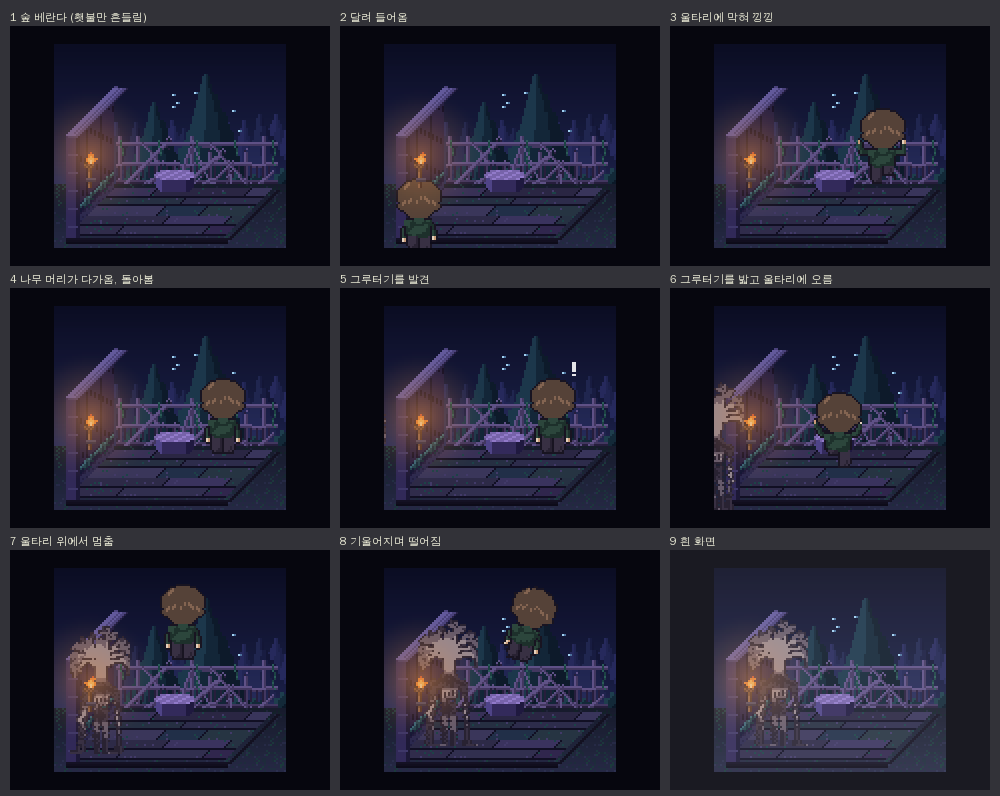
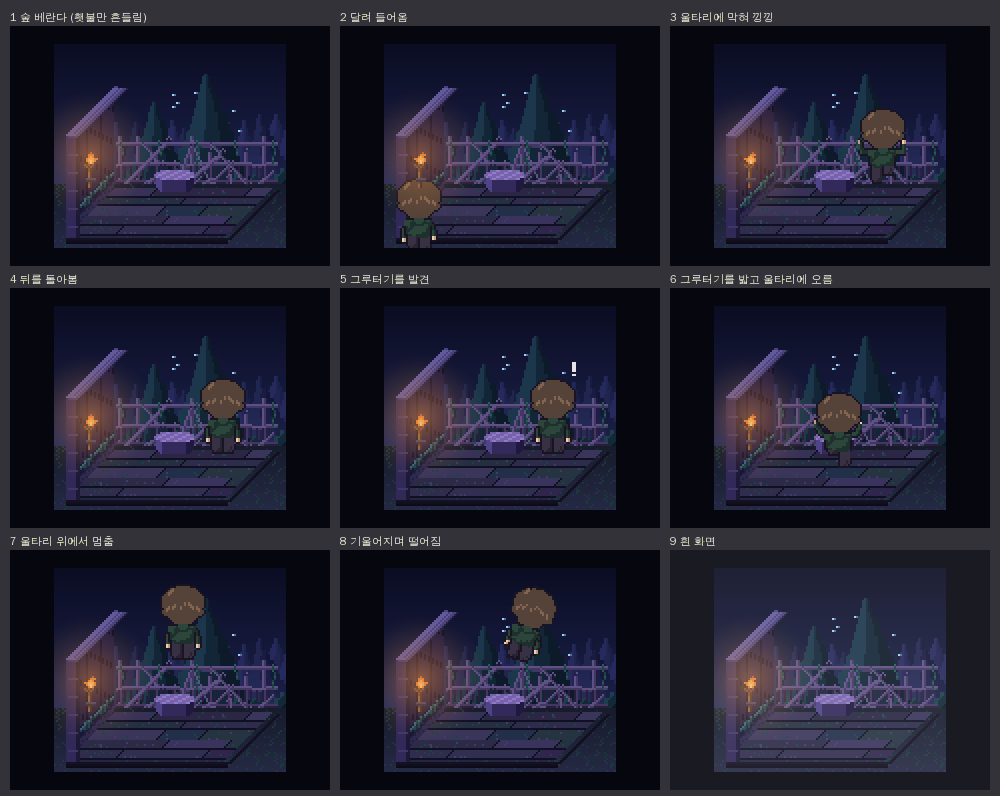
Ending cutscene: chaser removed for now
Claude-Session: https://claude.ai/code/session_01FPZSaKiVNU2zED737yZX4w

diff --git a/tools/gen_cutscene_ending.py b/tools/gen_cutscene_ending.py
@@ -2,7 +2,7 @@
 """수미상관 컷신(본편 끝, 숲 베란다, 게임 모드 사선 시점).  사용: python3 tools/gen_cutscene_ending.py
 출력: maps/out/ending_cutscene.gif (10fps, 320x240), maps/out/ending_cutscene_sheet.png
 프롤로그(아파트 베란다 추락)와 같은 순서를 숲에서 되풀이한다: 달려 들어옴 → 무너진 울타리에 막혀 매달려 보며 낑낑 →
-뒤에서 나무 머리가 다가옴 → 기울어진 옆의 그루터기를 발견해 밟고 울타리에 오름 → 울타리 위에서 잠깐 멈춤 → 기울어지며 울타리 너머로 떨어짐 → 흰 화면."""
+뒤를 돌아봄(추격자는 화면에 없음) → 기울어진 옆의 그루터기를 발견해 밟고 울타리에 오름 → 울타리 위에서 잠깐 멈춤 → 기울어지며 울타리 너머로 떨어짐 → 흰 화면."""
 import math, os, sys
 from PIL import Image, ImageDraw, ImageFont
 sys.path.insert(0, os.path.dirname(os.path.abspath(__file__)))
@@ -75,9 +75,9 @@ for k in range(2):
     hold(SPOT, BREACH, 3, '3 울타리에 막혀 낑낑' if k == 0 else '')
     for i in range(8): hold((SPOT[0] + (1 if i % 2 else 0), SPOT[1] - 4), BHANG[(i // 2) % 2], 1)
 hold(SPOT, BREACH, 4)
-# 4. 뒤에서 나무 머리가 나타남(이때부터 끝까지 같은 속도로 다가온다). 아이가 돌아봄
-CD[0] = 0.0
-hold(SPOT, BIDLE, 6, '4 나무 머리가 다가옴, 돌아봄'); hold(SPOT, FIDLE, 12)
+# 4. 아이가 뒤를 돌아봄(추격자는 화면에 넣지 않음)
+# (추격자는 일단 넣지 않는다: CD[0] 을 0.0 으로 두면 이 시점부터 나타나 다가온다)
+hold(SPOT, BIDLE, 6, '4 뒤를 돌아봄'); hold(SPOT, FIDLE, 12)
 # 5. 옆의 그루터기를 발견(느낌표) → 그루터기로 걸음을 재촉
 hold(SPOT, BIDLE, 6, '5 그루터기를 발견', bang=(SPOT[0] + 10, SPOT[1] - 46))
 go(SPOT, ST_FRONT, WALK_V * 1.4, FWALK)
